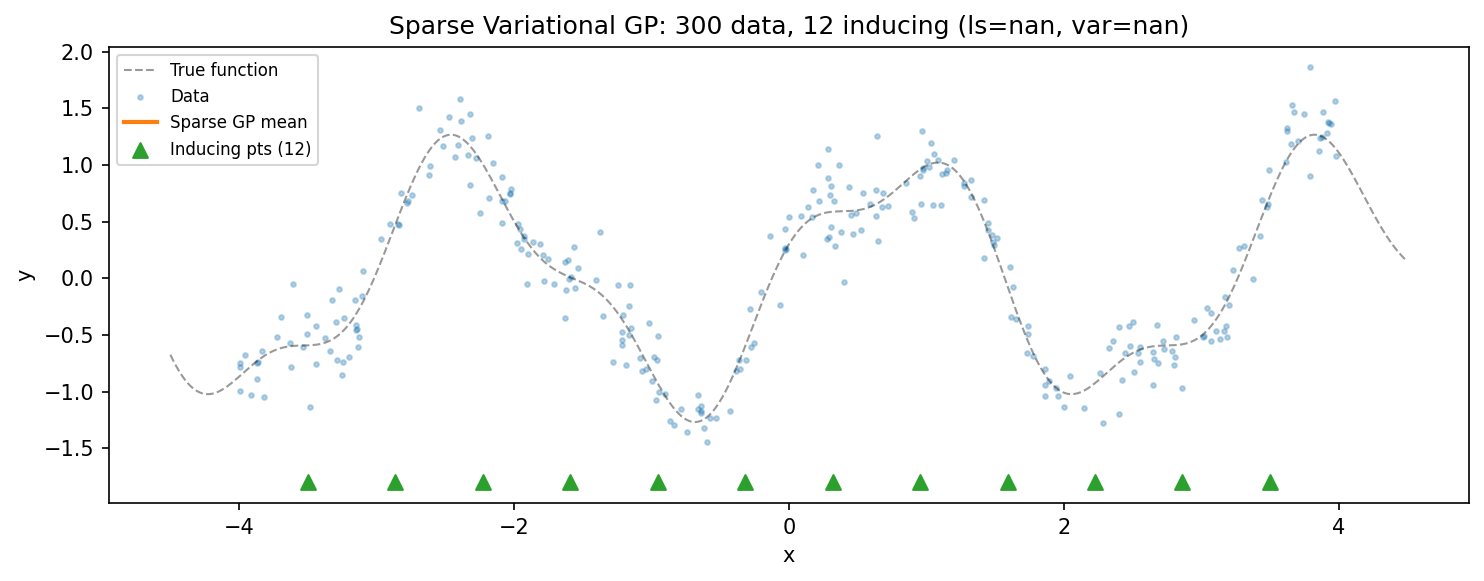
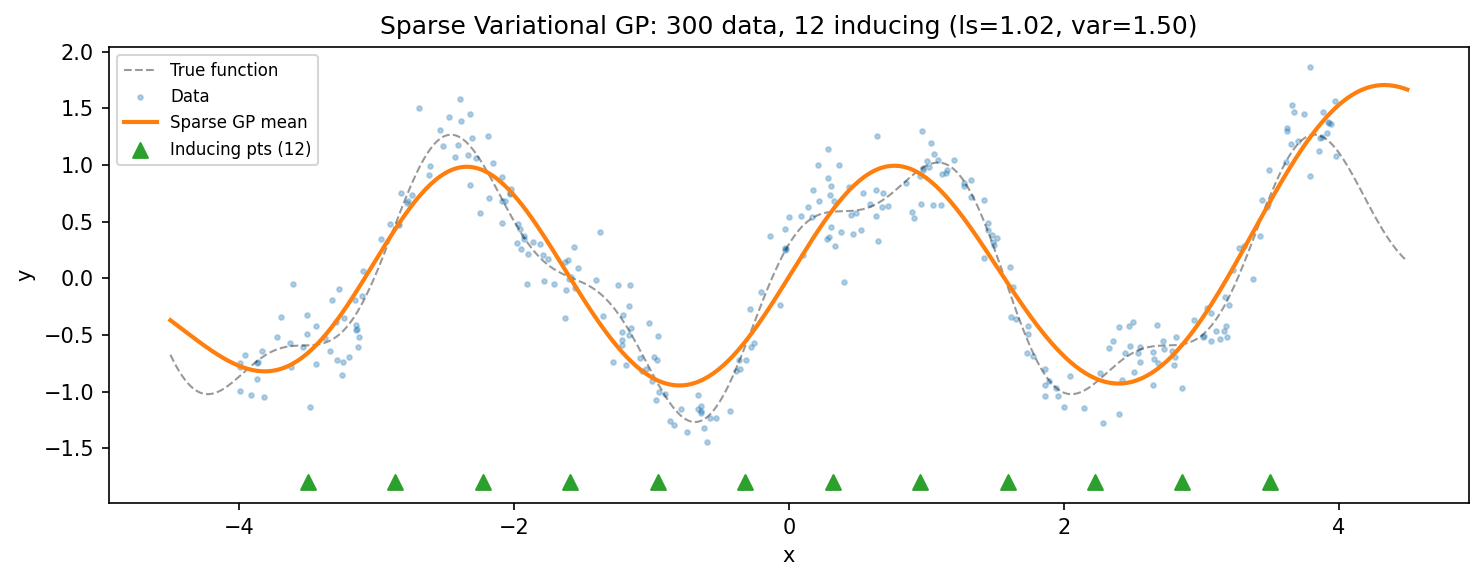
fix: stabilize sparse variational GP optimization
The gradient descent in the sparse_variational_gp notebook was
diverging — the noise parameter exploded to inf by step 6 due
to large gradients (~188) with lr=0.05.

Fix: reduce lr to 0.01, add gradient clipping at +/-10, increase
iterations to 100. Now converges cleanly to sensible hyperparameters
(ls=1.02, var=1.50, noise=0.09).

diff --git a/docs/notebooks/sparse_variational_gp.py b/docs/notebooks/sparse_variational_gp.py
@@ -136,9 +136,11 @@ print(f"Initial ELBO: {elbo(log_params, x_data, y_data, x_inducing):.2f}")
 # %%
 grad_fn = jax.jit(jax.grad(lambda p: -elbo(p, x_data, y_data, x_inducing)))
 
-lr = 0.05
-for _i in range(50):
+lr = 0.01
+for _i in range(100):
     g = grad_fn(log_params)
+    # Clip gradients for stability
+    g = jnp.clip(g, -10.0, 10.0)
     log_params = log_params - lr * g
 
 ls_opt, var_opt, noise_opt = jnp.exp(log_params)
